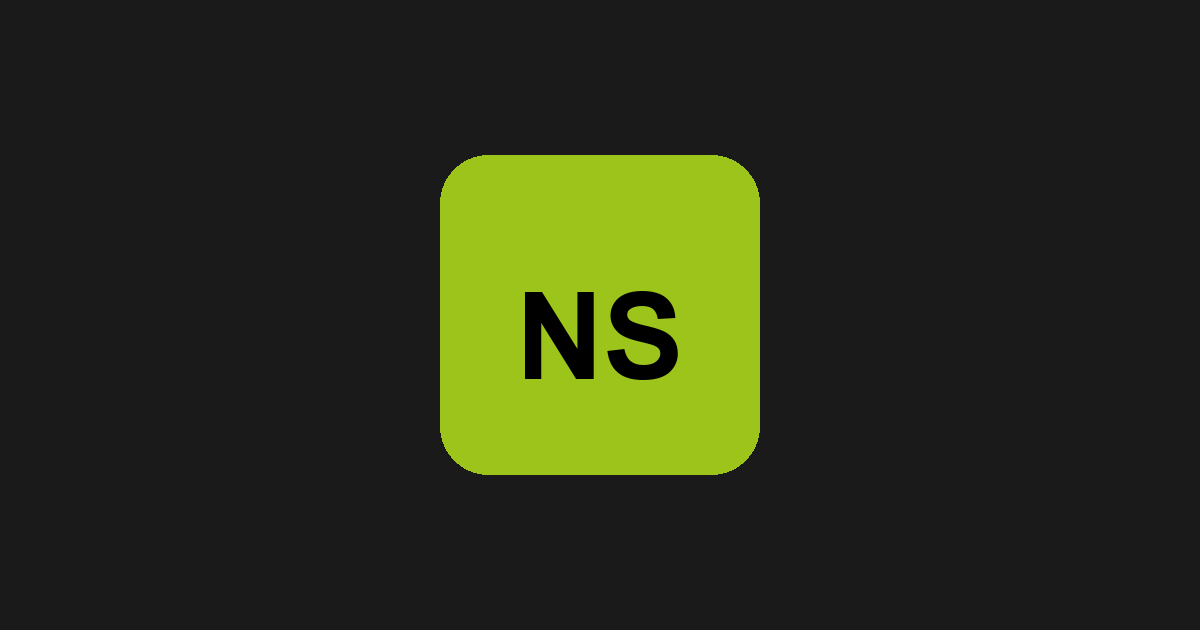
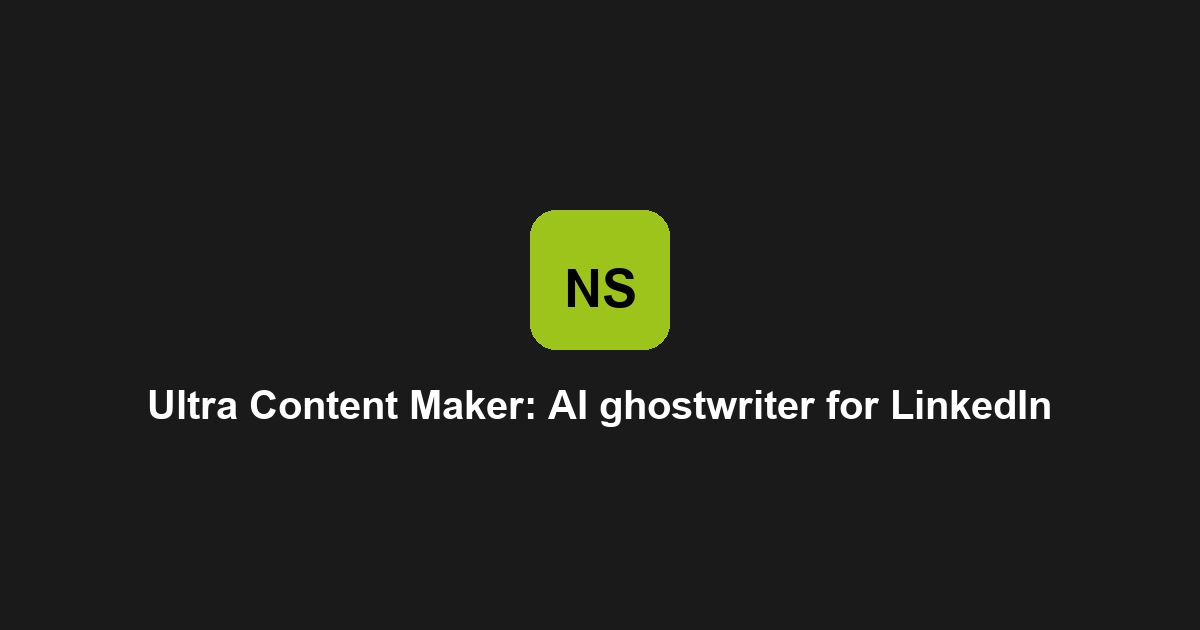
Redesign OG preview image with smaller NS mark and English tagline.
WhatsApp and social cards now show a compact logo with "Ultra Content Maker: AI ghostwriter for LinkedIn" below it; metadata description matches in English.

Changed region(s): [[0.1233, 0.2413, 0.8942, 0.754]]

diff --git a/src/app/opengraph-image.tsx b/src/app/opengraph-image.tsx
@@ -5,6 +5,8 @@ export const alt = "Ultra Content Maker — NS Suite";
 export const size = { width: 1200, height: 630 };
 export const contentType = "image/png";
 
+const OG_TAGLINE = "Ultra Content Maker: AI ghostwriter for LinkedIn";
+
 export default function OpenGraphImage() {
   return new ImageResponse(
     (
@@ -13,12 +15,29 @@ export default function OpenGraphImage() {
           width: "100%",
           height: "100%",
           display: "flex",
+          flexDirection: "column",
           alignItems: "center",
           justifyContent: "center",
           background: NS_MARK_HERO,
+          gap: 32,
         }}
       >
-        <NsMarkImage size={320} borderRadius={48} />
+        <NsMarkImage size={140} borderRadius={24} />
+        <p
+          style={{
+            margin: 0,
+            maxWidth: 900,
+            textAlign: "center",
+            fontSize: 40,
+            fontWeight: 700,
+            color: "#ffffff",
+            lineHeight: 1.25,
+            fontFamily:
+              'ui-sans-serif, system-ui, -apple-system, "Segoe UI", Roboto, sans-serif',
+          }}
+        >
+          {OG_TAGLINE}
+        </p>
       </div>
     ),
     { ...size },

diff --git a/src/app/[locale]/layout.tsx b/src/app/[locale]/layout.tsx
@@ -8,8 +8,7 @@ import { setRequestLocale } from "next-intl/server";
 import { notFound } from "next/navigation";
 import type { ReactNode } from "react";
 
-const siteDescription =
-  "Ultra Content Maker : Ghostwriter IA pour LinkedIn — un outil NS Suite pour les entrepreneurs.";
+const siteDescription = "Ultra Content Maker: AI ghostwriter for LinkedIn";
 
 export function generateMetadata(): Metadata {
   const ogImageUrl = `${getSiteUrl()}/og-image.png`;
@@ -24,7 +23,7 @@ export function generateMetadata(): Metadata {
           url: ogImageUrl,
           width: 1200,
           height: 630,
-          alt: "Ultra Content Maker — NS Suite",
+          alt: "Ultra Content Maker: AI ghostwriter for LinkedIn",
           type: "image/png",
         },
       ],

diff --git a/src/app/layout.tsx b/src/app/layout.tsx
@@ -13,7 +13,7 @@ const siteUrl = getSiteUrl();
 const ogImageUrl = `${siteUrl}/og-image.png`;
 
 const siteDescription =
-  "Ultra Content Maker : Ghostwriter IA pour LinkedIn — un outil NS Suite pour les entrepreneurs.";
+  "Ultra Content Maker: AI ghostwriter for LinkedIn";
 
 export const metadata: Metadata = {
   metadataBase: new URL(siteUrl),